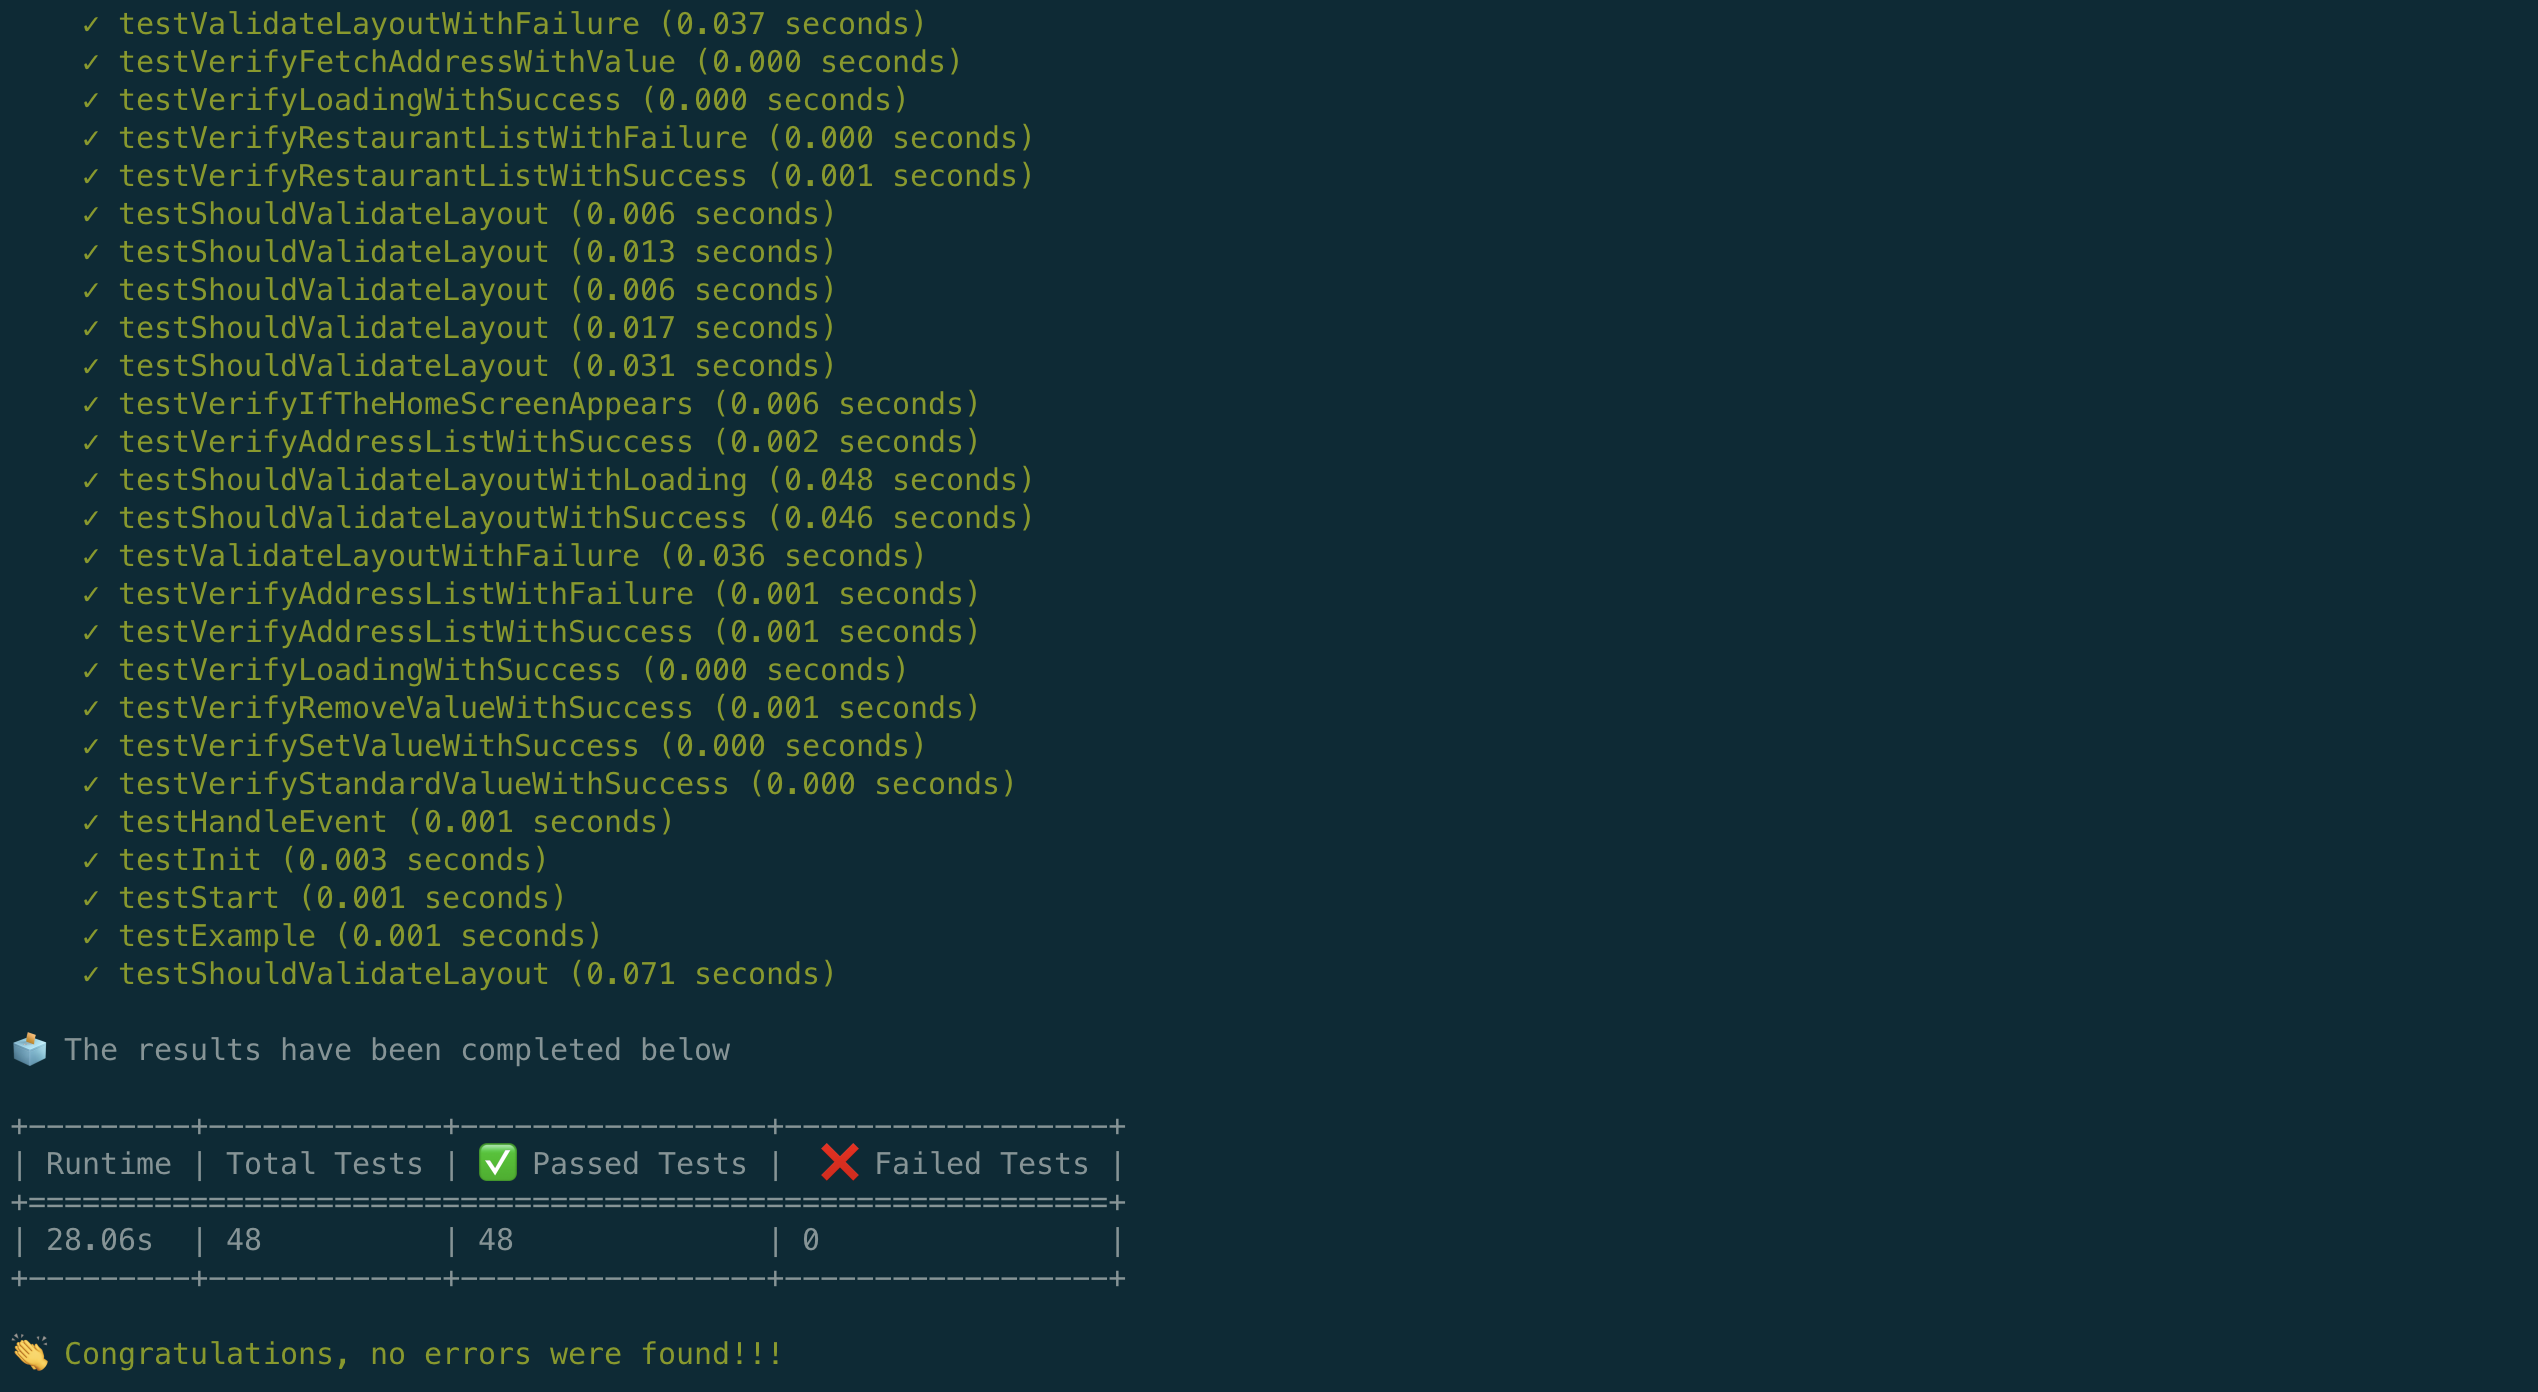
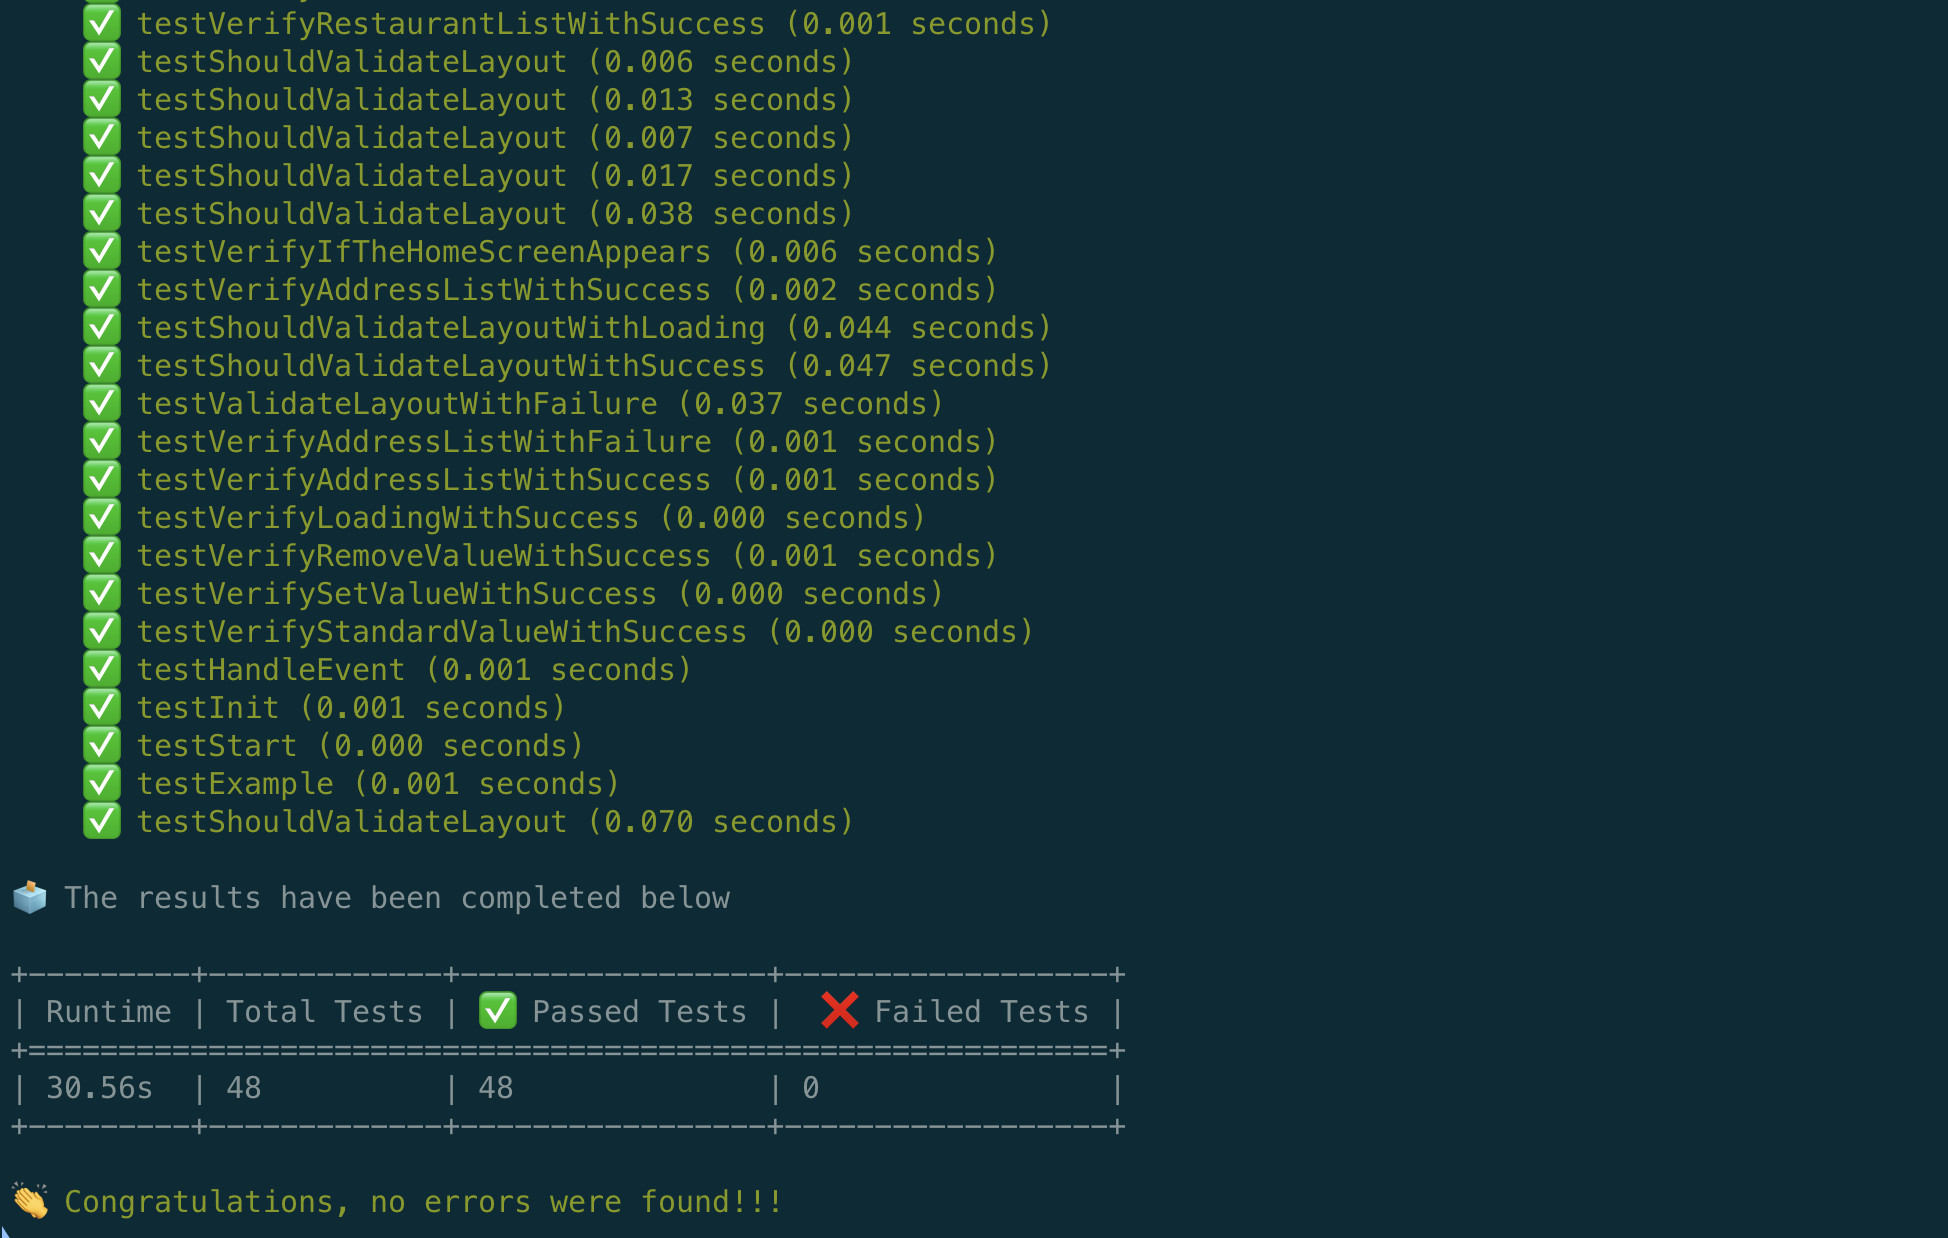
Updated layout (#2)

Changed region(s): [[0.0, 0.0, 0.5236, 0.7674], [0.0, 0.7981, 0.5852, 0.9208], [0.0, 0.9515, 0.4004, 0.9822]]

diff --git a/src/main.rs b/src/main.rs
@@ -43,8 +43,10 @@ fn main() {
             let reader = BufReader::new(stdout);
             for line in reader.lines() {
                 if let Ok(line) = line {
+
+                    let mut mutable_line = line.clone();
                     validation_lines(
-                        line, 
+                        &mut mutable_line, 
                         &mut passed_tests, 
                         &mut failed_tests, 
                         &mut get_errors);
@@ -60,18 +62,20 @@ fn main() {
 }
 
 fn validation_lines(
-    line: String, 
+    line: &mut String, 
     passed_tests: &mut i32, 
     failed_tests: &mut i32, 
     get_errors: &mut Vec<String>) {
 
     if line.contains("✓") {
+        *line = line.replace("✓", "✅");
         *passed_tests += 1;
         println!("{}", line.green());
     } else if line.contains("✗") {
+        *line = line.replace("✗", "❌");
         *failed_tests += 1;
         println!("{}", line.red());
-        get_errors.push(line);
+        get_errors.push(line.clone());
     }
 }
 
@@ -108,7 +112,7 @@ fn validation_show_errors(get_errors: Vec<String>) {
         let text_congratulations = "\n👏 Congratulations, no errors were found!!!".green();
         println!("{}", text_congratulations)
     } else {
-        let text_constains_error = "\n ⚠  Below contains the errors \n".red();
+        let text_constains_error = "\n ⚠  Below contains the errors \n".yellow();
         println!("{}", text_constains_error);
         
         for errors in &get_errors {
